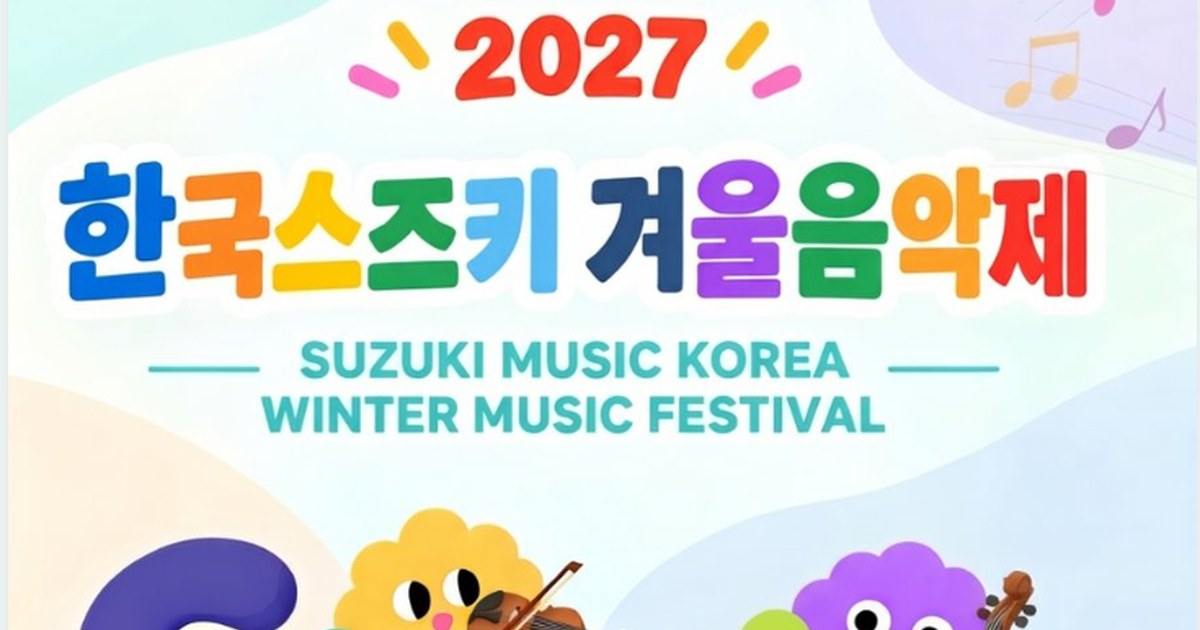
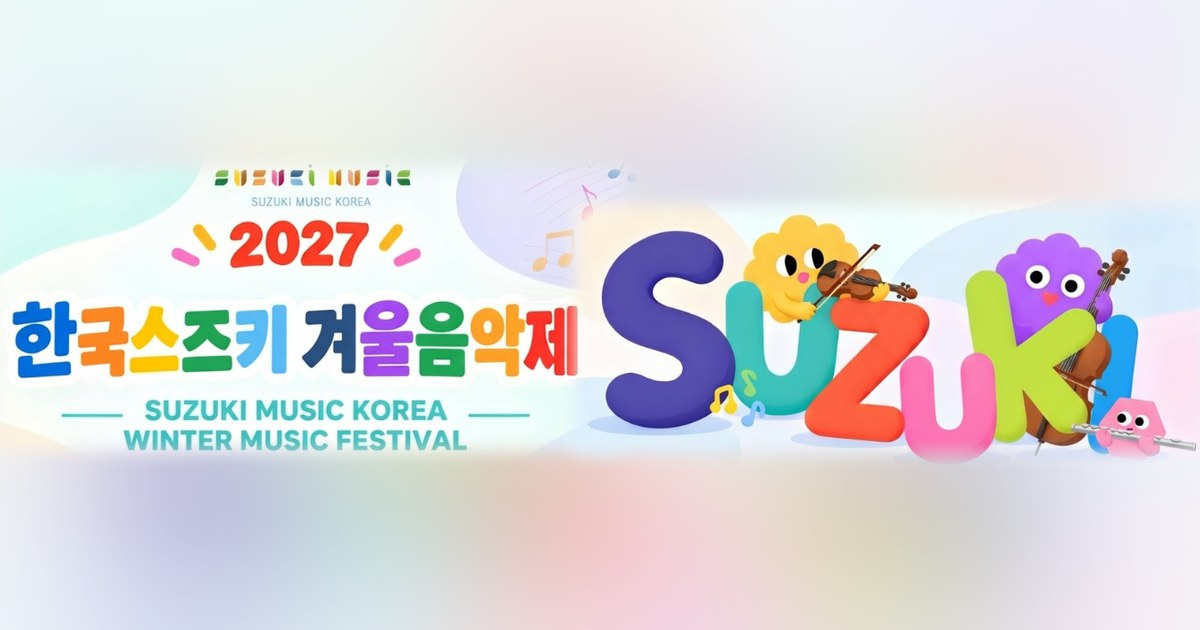
camp: 공유 그림 — 포스터 제목(왼쪽) · SUZUKI 캐릭터(오른쪽) 가로로 배치, 잘린 곳 없이
Claude-Session: https://claude.ai/code/session_01McH2SMSpo6xGfG1xFNNs6e

diff --git a/camp/parent.html b/camp/parent.html
@@ -16,7 +16,7 @@
 <meta property="og:description" content="학원에서 받은 주소로 캠프 참가를 신청해요. 회원가입 없이 보호자 이름 · 휴대전화로.">
 <meta property="og:type" content="website">
 <meta property="og:site_name" content="스즈키 겨울 음악제">
-<meta property="og:image" content="https://app.suzukimusickorea.org/camp/og-poster.jpg?v=4">
+<meta property="og:image" content="https://app.suzukimusickorea.org/camp/og-poster.jpg?v=5">
 <meta property="og:image:width" content="1200">
 <meta property="og:image:height" content="630">
 <meta name="twitter:card" content="summary_large_image">

diff --git a/camp/new.html b/camp/new.html
@@ -15,7 +15,7 @@
 <meta property="og:url" content="https://app.suzukimusickorea.org/camp/new.html">
 <meta property="og:type" content="website">
 <meta property="og:site_name" content="스즈키 겨울 음악제">
-<meta property="og:image" content="https://app.suzukimusickorea.org/camp/og-poster.jpg?v=4">
+<meta property="og:image" content="https://app.suzukimusickorea.org/camp/og-poster.jpg?v=5">
 <meta property="og:image:width" content="1200">
 <meta property="og:image:height" content="630">
 <meta name="twitter:card" content="summary_large_image">
